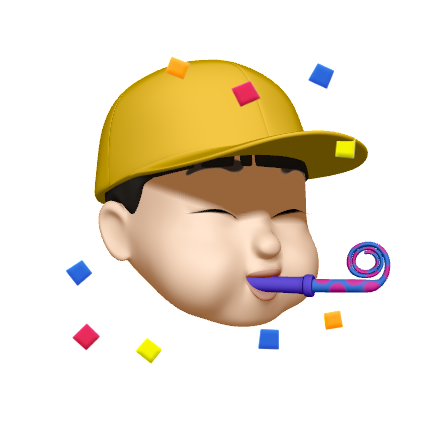
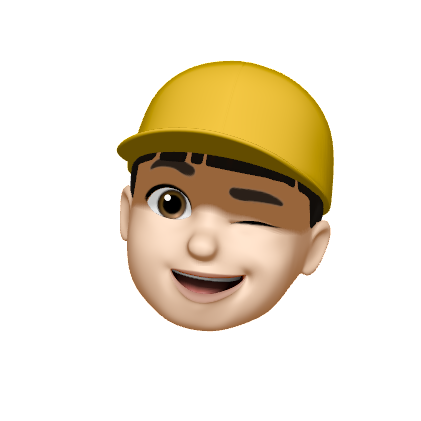
emoji change

diff --git a/src/components/PageLayout/Sidebar/sidebar.module.less b/src/components/PageLayout/Sidebar/sidebar.module.less
@@ -19,9 +19,14 @@
 			background-repeat: no-repeat;
 			background-position: bottom;
 			border-radius: @border-radius-full;
+			transition: all 0.5s;
 			@media screen and (max-width: 767px) {
 				max-width: 230px;
 				margin: auto;
+			}
+			&:hover {
+				transition: all 0.5s;
+				background-image: url('../../../images/memoticon2.png');
 			}
 		}
 		.name {
